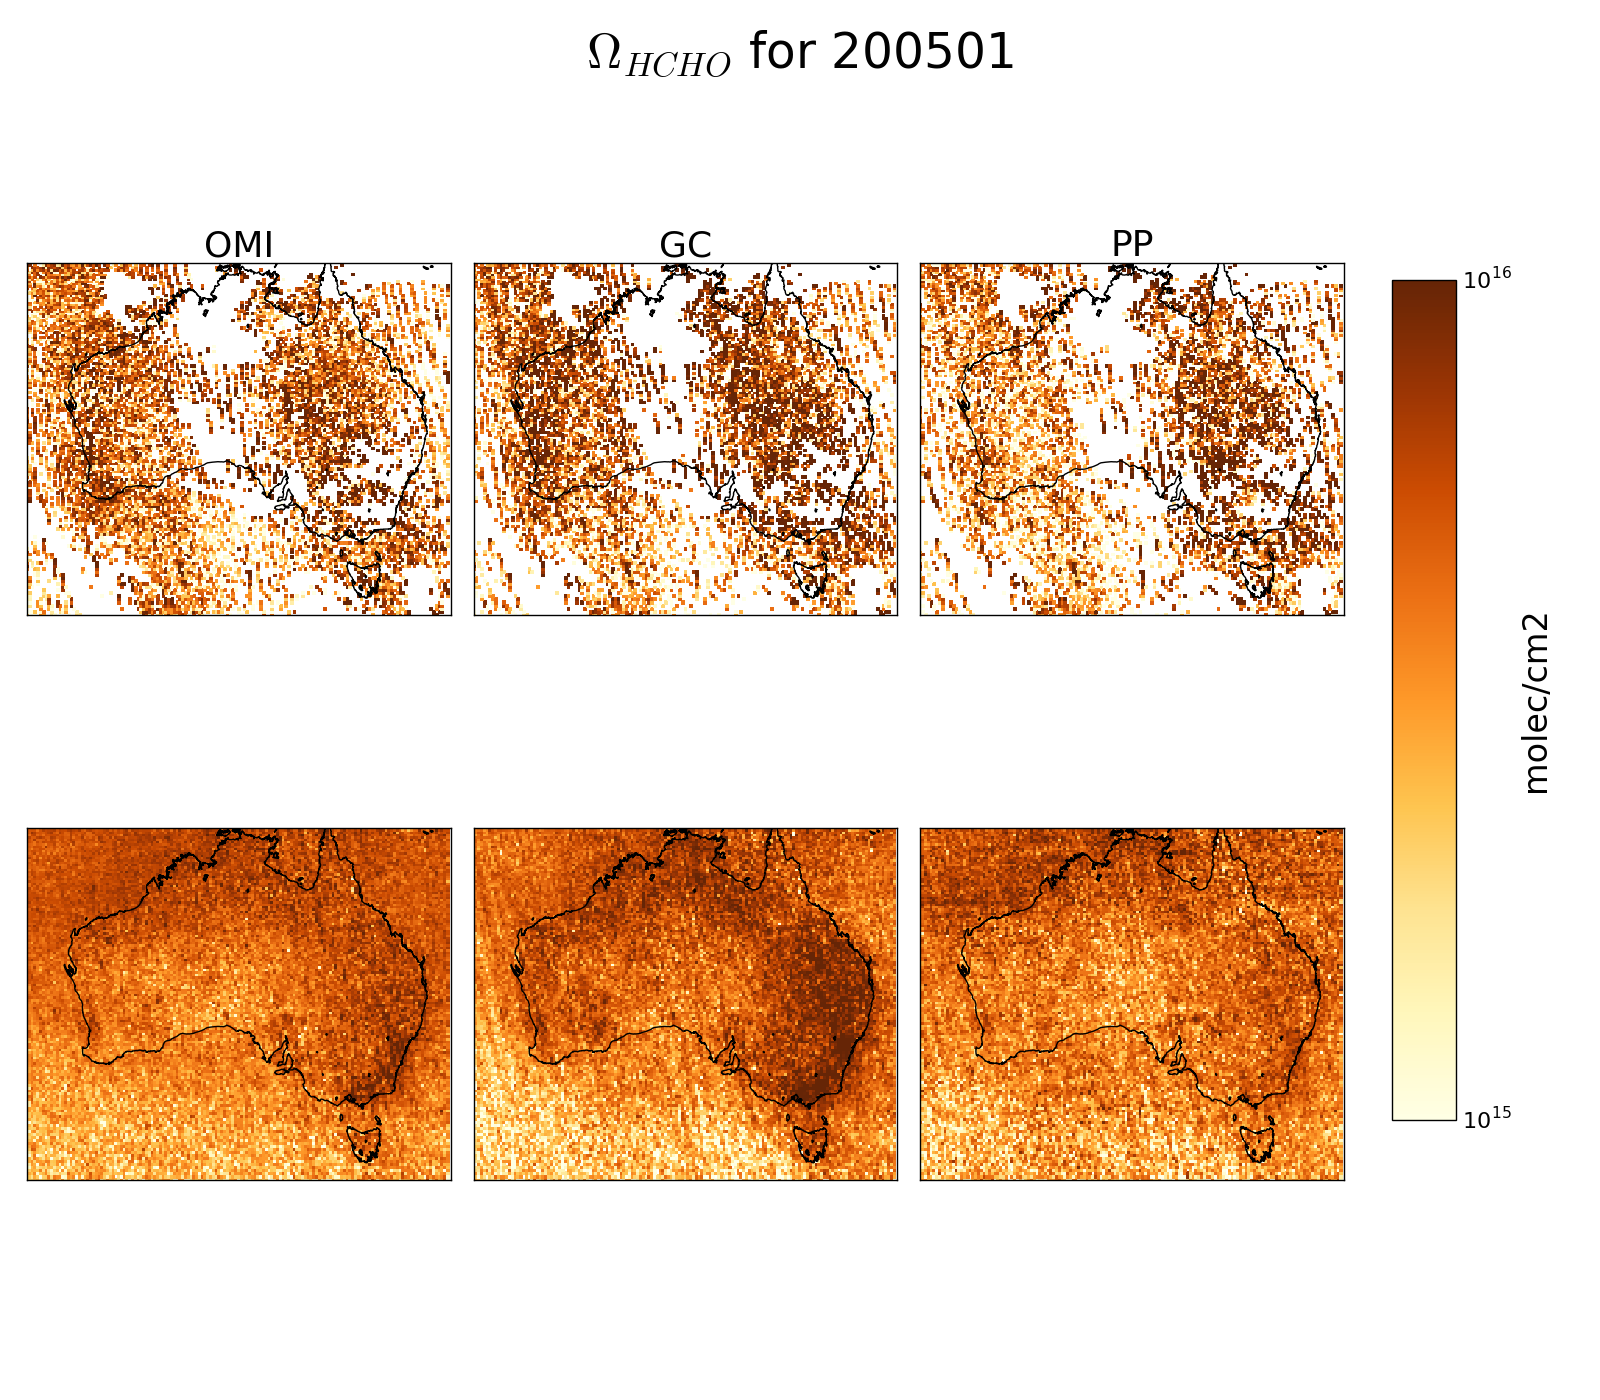
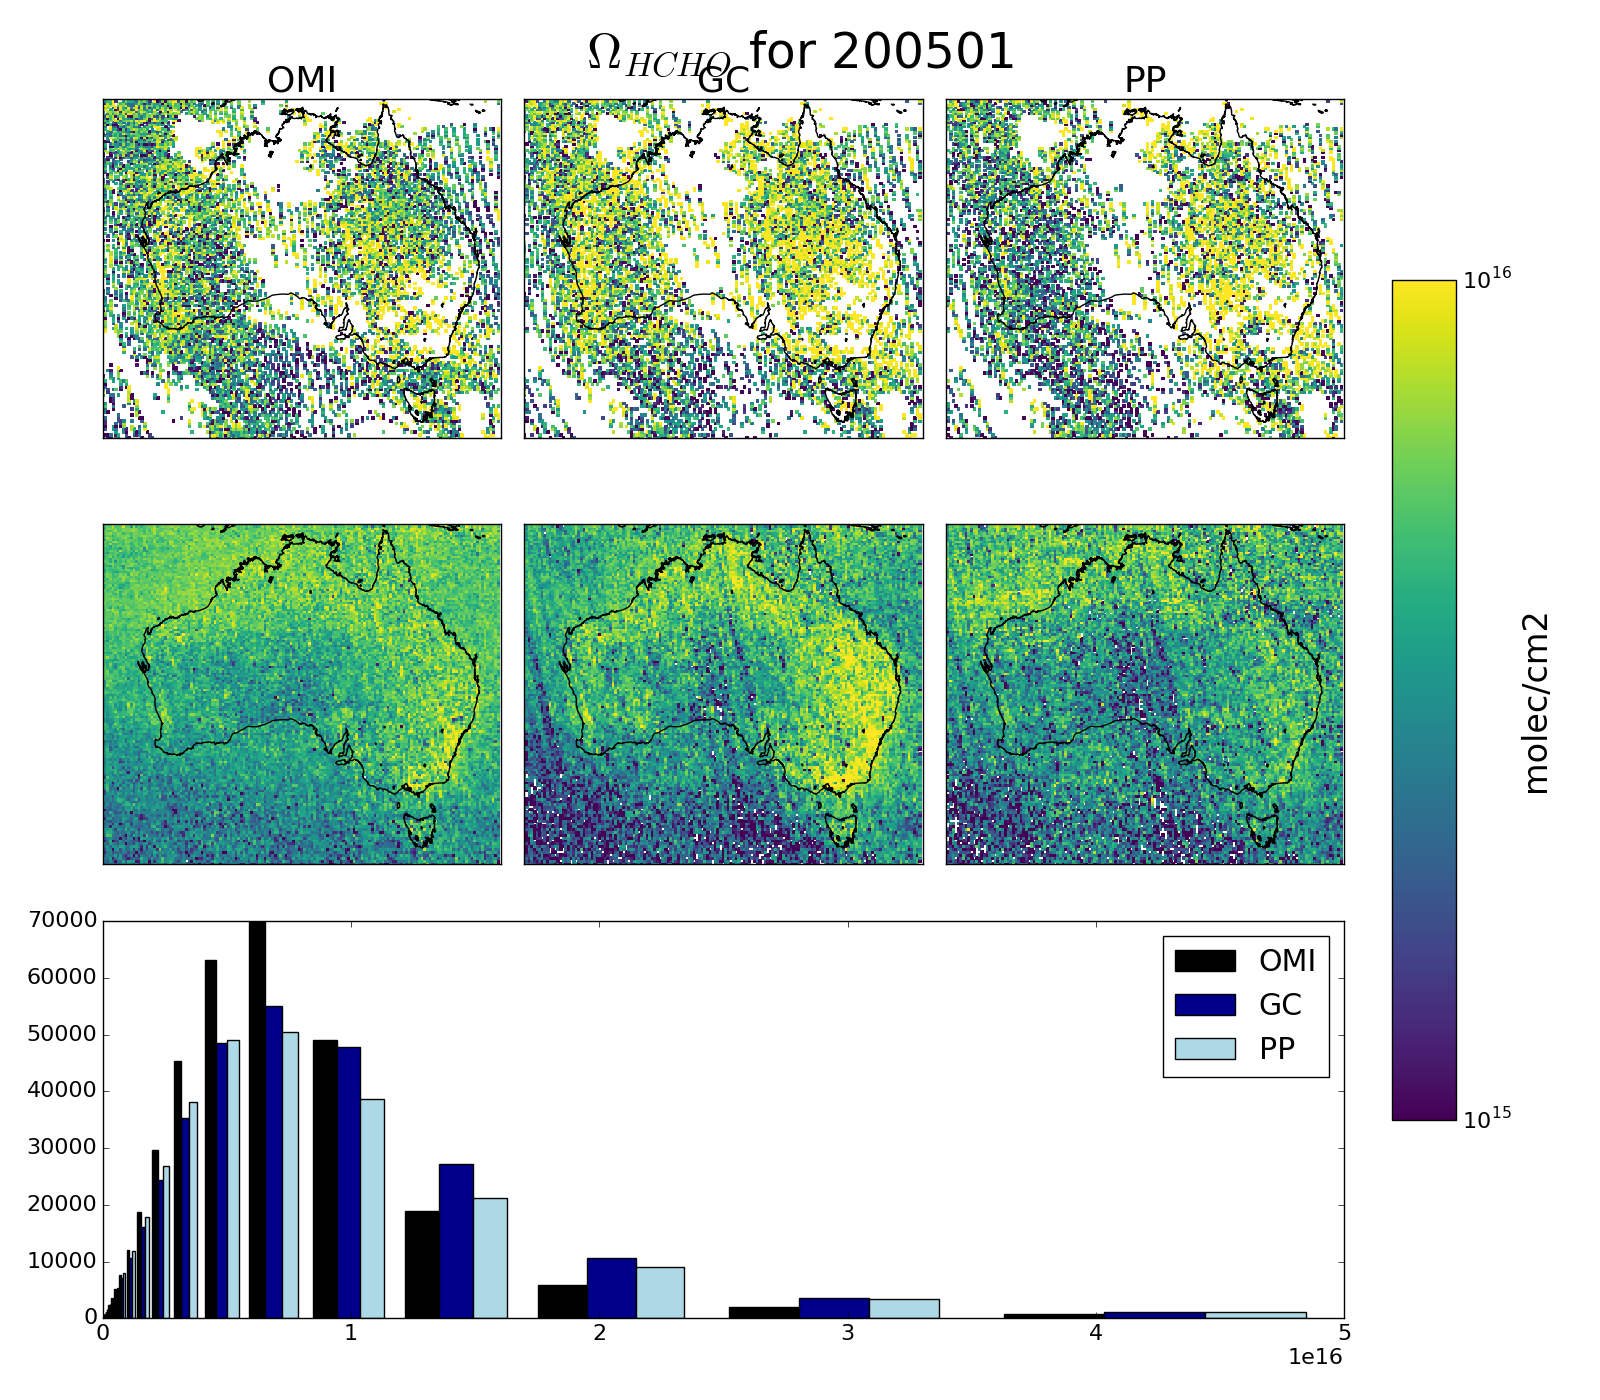
Updated VCC check, added distributions

diff --git a/tests.py b/tests.py
@@ -237,14 +237,15 @@ def check_products(month=datetime(2005,1,1), region=pp.__AUSREGION__):
     # Plot
     # 1-day: VCC_omi, VCC_GC, VCC_PP
     # 1-month: '', '', ''
+    # distributions: combined
     f = plt.figure(num=0,figsize=(16,14))
     titles=['OMI','GC','PP']
     vmin,vmax=1e15,1e16
-    cmapname='YlOrBr'
+    cmapname='viridis'
     for i,VC in enumerate(subsets['data']):
         for j in [0,1]:
             VCj=[VC[0],np.nanmean(VC,axis=0)][j]
-            plt.subplot(2,3,1+i+3*j)
+            plt.subplot(3,3,1+i+3*j)
             bmap,cs,cb = pp.createmap(VCj,lats,lons, region=region,
                                    vmin=vmin,vmax=vmax,
                                    title=[titles[i],''][j], cmapname=cmapname,
@@ -252,10 +253,20 @@ def check_products(month=datetime(2005,1,1), region=pp.__AUSREGION__):
 
     yms = month.strftime('%Y%m')
     plt.suptitle('$\Omega_{HCHO}$ for %s'%yms,fontsize=35)
-    pp.add_colourbar(f,cs,label='molec/cm2',fontsize=24)
+
+    plt.subplot(3,1,3) # third row is all three as distributions
+    dists=[]
+    for arr in subsets['data']:
+        print(type(arr), arr.shape)
+        arrlist=arr[~np.isnan(arr)]
+        print(type(arrlist), np.shape(arrlist))
+        dists.append(arrlist)
+    plt.hist(dists, bins=np.logspace(14, 17, 20)/2.0, color=['k','darkblue','lightblue'], label=titles)
+    plt.legend(loc='best')
 
     outfig=month.strftime("Figs/VCC_check_%Y%m.png")
     #plt.tight_layout()
+    pp.add_colourbar(f,cs,label='molec/cm2',fontsize=24)
     plt.savefig(outfig)
     plt.close()
     print(outfig+" Saved.")
@@ -1755,10 +1766,10 @@ if __name__ == '__main__':
 
     ## Look at what's going on at smearing edgepoints
     # TODO update and dig deeper
-    test_filters.smearing_at_edges()
+    #test_filters.smearing_at_edges()
     ## Test smearing at midday vs average smearing...
     # run/14/8/18
-    test_filters.smearing_definition(threshmask=True)
+    #test_filters.smearing_definition(threshmask=True)
     ## check smearing distributions and filtering
     # run 8/8/18 TODO: add version using midday smearing..
     #test_filters.smearing_threshold()
@@ -1767,7 +1778,7 @@ if __name__ == '__main__':
     ### Tests to be sorted into files
     ######
     #Test_Uncertainty()              # last run 15/5/18
-    #check_products()               # last run 15/5/18
+    check_products()               # last run 28/8/18
 
     # GEOS Chem trop vs ucx restarts
     #check_HEMCO_restarts()

diff --git a/utilities/fio.py b/utilities/fio.py
@@ -54,6 +54,11 @@ __Thresh_AAOD__  = 0.03 # AAOD smoke threshhold
 __Thresh_fires__ = 1 # active fire pixel count threshhold
 
 
+# TODO set these up and use
+__path_firemask__=''
+__path_anthromask__=''
+__path_smokemask__=''
+
 __GCHCHO_KEYS__ = [
     'LONGITUDE','LATITUDE',
     'VCHCHO',           # molecs/m2
@@ -993,9 +998,17 @@ def read_GC_output(date=datetime(2005,1,1), Isop=False,
 ## Cant use omhchorp since omhchorp uses these to make the masks the first time
 ##############
 
+def get_anthro_mask(d0,dN,region=None,latres=__LATRES__, lonres=__LONRES__):
+    '''
+        Read anthro mask from d0 to dN.
+            If the mask does not exist, make it directly using make_anthro_mask
+        better to use make_anthro_mask_file sometime before calling this, but not necessary
+    '''
+    # file name for anthro mask:
+
 def make_anthro_mask(d0,dN=None,
                      threshy=__Thresh_NO2_y__, threshd=__Thresh_NO2_d__,
-                     latres=__LATRES__, lonres=__LONRES__, region=None):
+                     latres=__LATRES__, lonres=__LONRES__):
     '''
         Read year of OMNO2d
         Create filter from d0 to dN using yearly average over threshy
@@ -1041,6 +1054,13 @@ def make_anthro_mask(d0,dN=None,
         ret=subset['data'][0]
         lats,lons=subset['lats'],subset['lons']
     return ret, dates, lats, lons
+
+def make_anthro_mask_file(year,
+                          threshy=__Thresh_NO2_y__, threshd=__Thresh_NO2_d__,
+                          latres=__LATRES__, lonres=__LONRES__):
+    '''
+        Create anthro mask file for whole year
+    '''
 
 def make_smoke_mask(d0, dN=None, aaod_thresh=__Thresh_AAOD__,
                     latres=__LATRES__, lonres=__LONRES__, region=None):
